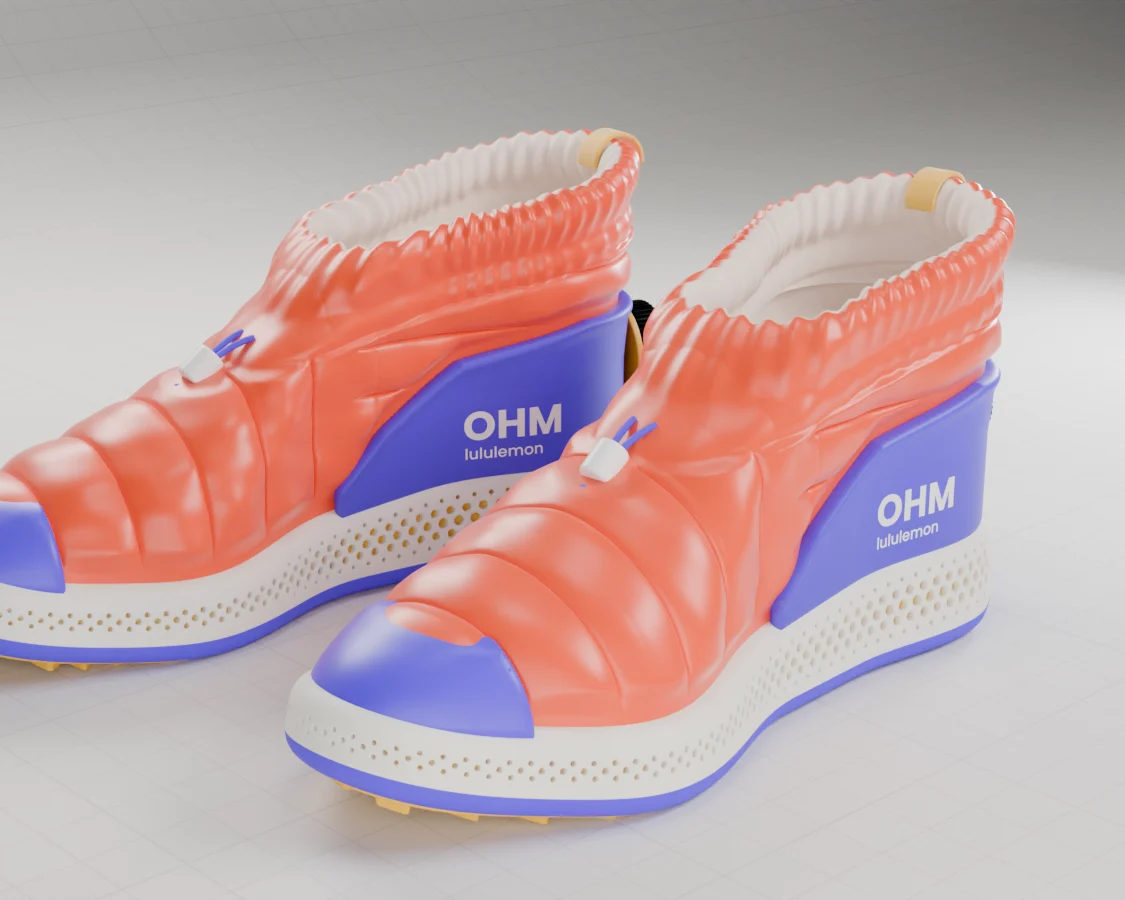
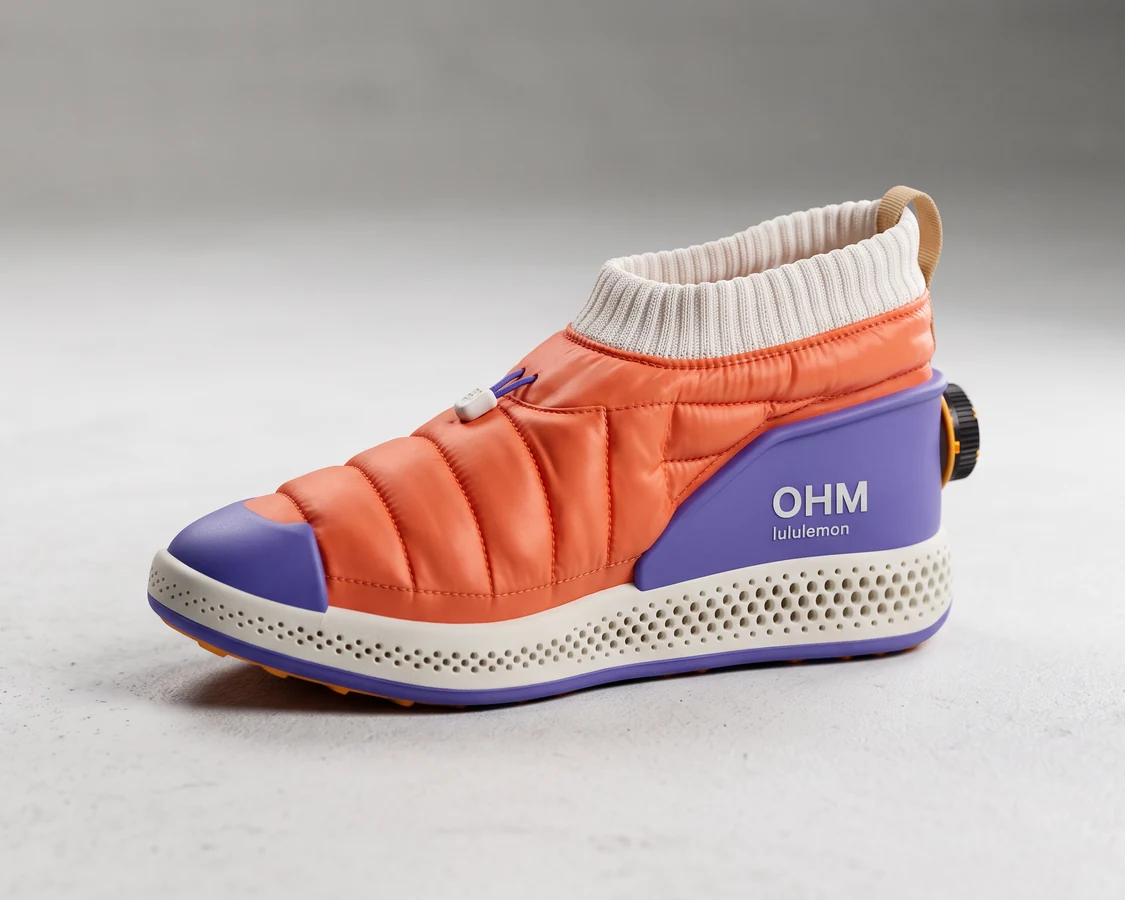
OHM-01 Round 08: Vizcom render pass, STUDIO SHOTS section, new homepage card
Claude-Session: https://claude.ai/code/session_01TNyScy9nZyiLRuuEgea6hJ

diff --git a/ohm/index.html b/ohm/index.html
@@ -102,7 +102,7 @@ footer .row{display:flex;justify-content:space-between;align-items:flex-end;gap:
 <body>
 <nav class="nav" aria-label="OHM-01 sections"><div class="wrap">
  <a href="https://tigrestudiodesign.github.io/" style="text-decoration:none"><b>TIGRE STUDIO</b> <span class="mono">/ OHM-01</span></a>
- <ul><li><a href="#colourways">Colourways</a></li><li><a href="#anatomy">Anatomy</a></li><li><a href="#process">Process</a></li><li><a href="#pipeline">Pipeline</a></li><li><a href="https://tigrestudiodesign.github.io/">Portfolio ↗</a></li></ul>
+ <ul><li><a href="#studio">Studio</a></li><li><a href="#colourways">Colourways</a></li><li><a href="#anatomy">Anatomy</a></li><li><a href="#process">Process</a></li><li><a href="#pipeline">Pipeline</a></li><li><a href="https://tigrestudiodesign.github.io/">Portfolio ↗</a></li></ul>
 </div></nav>
 <div class="stripe"></div>
 
@@ -116,10 +116,19 @@ footer .row{display:flex;justify-content:space-between;align-items:flex-end;gap:
   <div><span class="mono">Midsole perforations</span><b>393</b></div>
   <div><span class="mono">Lug height</span><b>4.2 mm</b></div>
   <div><span class="mono">Colourways</span><b>3</b></div>
-  <div><span class="mono">Design rounds</span><b>7</b></div>
+  <div><span class="mono">Design rounds</span><b>8</b></div>
  </div>
  <div class="hero-img"><img id="heroImg" src="img/pair_punch.webp" width="1600" height="900" alt="A left and right pair of OHM-01 high-tops in the PUNCH colourway: orange quilted puffer uppers, violet heel counters printed with OHM and lululemon, perforated cream midsoles with yellow showing through."></div>
 </div></header>
+
+<section class="sec" id="studio"><div class="wrap">
+ <div class="sec-h"><h2>STUDIO SHOTS</h2><span class="it">Round 08 · Vizcom render pass on the Blender model</span></div>
+ <figure><img src="img/vz_studio.webp" width="2400" height="1340" alt="OHM-01 PUNCH in a soft grey studio: orange quilted ripstop puffer upper, ribbed cream knit collar with a tan pull loop, violet heel counter printed OHM over lululemon, black knurled dial on an orange bezel, perforated cream foam midsole." loading="lazy"><figcaption class="it">PUNCH, studio light. Ribbed knit collar, satin ripstop, soft-touch counter, perforated foam.</figcaption></figure>
+ <div class="gal">
+  <figure><img src="img/vz_ripstop.webp" width="2400" height="1340" alt="OHM-01 in a softer peach take: ripstop grid visible on the quilted upper, a chunky peach knit collar, violet toe cap and counter, black dial with a gold bezel." loading="lazy"><figcaption class="it">Alternate: peach ripstop with the grid showing, tonal chunky-knit collar.</figcaption></figure>
+  <div class="anat" style="grid-template-columns:1fr;align-content:start;align-self:start"><div><span class="n">HOW THESE WERE MADE</span><h3>MODEL FIRST, THEN RENDER</h3><p>The shape, the perforation pattern, the lockup and the colour blocking all come from the Python + Blender model in rounds 01–07. That hero render went into Vizcom (Instant Render) with a written material spec: matte ripstop with stitched baffles, knit collar, soft-touch TPU counter, EVA foam, light grey studio sweep. Four options came back and these two were kept.</p><p>What the AI pass changed: fabric realism, studio light and the knit collar. What it simplified: the dial reads as a generic knob, and the small lululemon type softens.</p></div></div>
+ </div>
+</div></section>
 
 <section class="sec" id="colourways"><div class="wrap">
  <div class="sec-h"><h2>THREE MOODS, ONE PAIR</h2><span class="it">Punch · Obsidian · Manga</span></div>
@@ -157,7 +166,7 @@ footer .row{display:flex;justify-content:space-between;align-items:flex-end;gap:
 </div></section>
 
 <section class="sec grid" id="process"><div class="wrap">
- <div class="sec-h"><h2>PROCESS &amp; ITERATIONS</h2><span class="it">Seven rounds, each one a response</span></div>
+ <div class="sec-h"><h2>PROCESS &amp; ITERATIONS</h2><span class="it">Eight rounds, each one a response</span></div>
  <ol class="log">
   <li><div class="lg-img"><img src="img/v1.webp" width="1200" height="900" alt="Round 1: low-top in graphite and hot orange with exposed cable lacing, screws, a speaker grille and a heel dial." loading="lazy"></div>
    <div><span class="v">ROUND 01 · LOW-TOP "SIGNAL"</span><h3>TAKE THE ELECTRONICS LITERALLY</h3>
@@ -193,6 +202,11 @@ footer .row{display:flex;justify-content:space-between;align-items:flex-end;gap:
   <li><div class="lg-img"><img src="img/pair_obsidian.webp" width="1600" height="900" alt="Round 7: the OHM-01 pair in OBSIDIAN, black with violet core." loading="lazy"></div>
    <div><span class="v">ROUND 07 · PAIR + COLOURWAYS</span><h3>LEFT, RIGHT, THREE MOODS</h3>
    <ul><li>The right shoe is a true mirror of the left. Its decal mapping is reversed so the lockup still reads correctly on both.</li><li>Three colourways from one model: Punch, Obsidian and Manga.</li></ul></div></li>
+  <li><div class="lg-img"><img src="img/vz_studio.webp" width="2400" height="1340" alt="Round 8: the Vizcom render pass of OHM-01 PUNCH in a grey studio." loading="lazy"></div>
+   <div><span class="v">ROUND 08 · VIZCOM RENDER PASS</span><h3>FROM CG TO PRODUCT PHOTO</h3>
+   <p class="ask it">Brief: make the renders read like real product photography.</p>
+   <ul><li>Took the Round 7 PUNCH hero into Vizcom and rendered it against a written CMF spec rather than a style word.</li><li>Kept the one that held the design: same silhouette, lockup and colour blocking, with real ripstop sheen, stitched baffles and a ribbed knit collar.</li></ul>
+   <p class="why it">Learned: the model sets the design; the AI pass only sells the materials. Anything it invents (the knit collar) becomes a question for the next round, not a decision.</p></div></li>
  </ol>
 </div></section>
 

diff --git a/index.html b/index.html
@@ -2110,7 +2110,7 @@ const RULE_TOOLS=[
  {n:'FEATURE-LOCKED GRADING',st:'In development',r:'Some features scale with size; others, like web thickness or a hinge angle, must stay locked.',o:'A full size run where the critical dimensions hold in every size.'}
 ];
 const FEAT=[
- {id:'ohm-01',href:'https://tigrestudiodesign.github.io/ohm/',isNew:true,img:['img/ohm__feat.webp',1125,900],k:'New · Footwear Concept · CMF · Python + Blender',t:'OHM-01 Puffer High-Top',d:"An unofficial women's puffer high-top for lululemon, built like soft hardware: a researched gathered collar, a graded 393-hole midsole and a parametric hike lug sole, modelled in code over seven design rounds and shown in three colourways.",tags:['Footwear','CMF','Parametric','Process']},
+ {id:'ohm-01',href:'https://tigrestudiodesign.github.io/ohm/',isNew:true,img:['img/ohm__feat.webp',1125,900],k:'New · Footwear Concept · CMF · Python + Blender',t:'OHM-01 Puffer High-Top',d:"An unofficial women's puffer high-top for lululemon, built like soft hardware: a researched gathered collar, a graded 393-hole midsole and a parametric hike lug sole, modelled in code over seven design rounds, finished with a Vizcom render pass and shown in three colourways.",tags:['Footwear','CMF','Parametric','Process']},
  {id:'basecamp',img:['img/bc2__hero.webp',1800,1440],k:'New · Industrial Design · Python + Blender',t:'BASECAMP Emergency Radio',d:'An upright hand-crank radio and pop-up lantern built to be repaired: product architecture, Torx hardware, CMF and a rule-driven speaker grille, all generated from code.',tags:['Product architecture','CMF','Computational design','Repairability']},
  {id:'pantera',href:'https://tigrestudiodesign.github.io/pantera/',isNew:true,img:['img/pt__feat.webp',1800,1440],k:'New · Footwear Pattern Engineering · Python + Rhino',t:'PANTERA Basketball Boot',d:"Frank Jones's hand method for a basketball boot double standard, run end to end in code on a 3D last: 11 parts at size, 19 of 19 checks within tolerance, a tech pack and a printable paper test kit.",tags:['Pattern engineering','Rules → code','Tech pack','Footwear']},
  {id:'parametric-keypad',img:['img/kp__render.webp',2000,1320],k:'Computational Design · Grasshopper 2 + Blender',t:'Parametric Keypad',d:'A true 3D Voronoi seeded on the case surface so the grooves wrap every edge seamlessly, with Tarka-style hardware, pad-printed legends and four colorways from one model.',tags:['Grasshopper','Voronoi','CMF','Parametric']},
